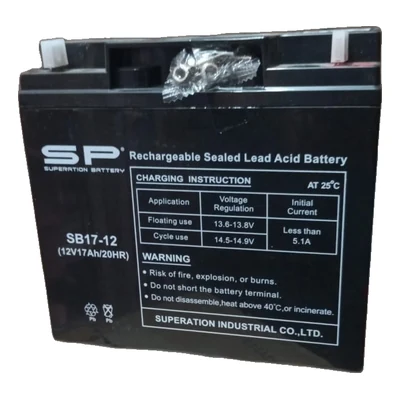
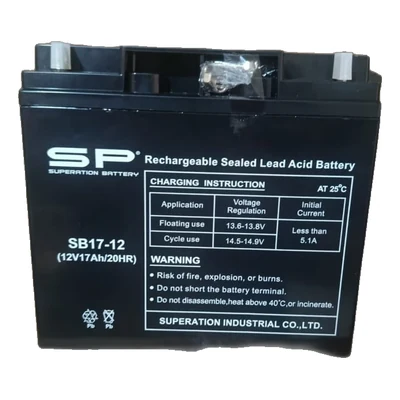
SP : 8 nouvelles references + 11 photos remplacees
Les 20 photos fournies sont des photos de stock prises sur le meme fond
(cartons) : fond retire, fond blanc, 400x400 webp comme le reste. Une
seule a demande un recadrage manuel avant detourage (6-EVF-45, le carton
du dessous etait garde).

Nouvelles fiches (8) :
  Solaire / Onduleur — SB50-12 (50Ah), SB40-12 (40Ah), SB9-12 (9Ah),
                       SB12-6 (6V 12Ah)
  Industriel         — 6-EVF-45 (45Ah), 6-DZM-38 (33.6Ah),
                       6-DZF-15 (15Ah), 6-DZF-12 (13Ah)

Photos remplacees (11) par les nouvelles prises, plus homogenes :
  SB75-12, SB55-12, SB36-12, SB30-12, SB17-12, SB12-12, SB7-12,
  SB4.5-12, SB7-6, SB4-6, 6-DZF-14

Capacites relevees sur l'etiquette : le 6-DZM-38 est donne pour
12V 33.6Ah/3HR et le 6-DZF-12 pour 12V 13Ah/2HR.

Une photo du lot (SB30-12 sans mention GEL) fait doublon avec la
SB30-12(GEL) : elle n'a pas ete utilisee.

Prix a definir : les 8 nouvelles fiches affichent « Sur demande ».

Claude-Session: https://claude.ai/code/session_01UbCYiDhGBYKx2jaPDPY8s7

diff --git a/src/data/catalogue.js b/src/data/catalogue.js
@@ -395,14 +395,18 @@ export const vehicles = [
       { id: 'so_sp_sb100', brand: 'SP', model: 'SB100-12(GEL)', ah: 100, v: 12, cca: 0, dim: '', price: null, fits: 'Kit solaire, onduleur (décharge lente)', photo: '/batteries/sp_sb100_12.webp' },
       { id: 'so_sp_sb75', brand: 'SP', model: 'SB75-12(GEL)', ah: 75, v: 12, cca: 0, dim: '260 × 169 × 210 mm', price: null, fits: 'Kit solaire, onduleur (décharge lente)', photo: '/batteries/sp_sb75_12.webp' },
       { id: 'so_sp_sb55', brand: 'SP', model: 'SB55-12(GEL)', ah: 55, v: 12, cca: 0, dim: '229 × 138 × 213 mm', price: null, fits: 'Kit solaire, onduleur (décharge lente)', photo: '/batteries/sp_sb55_12.webp' },
+      { id: 'so_sp_sb50', brand: 'SP', model: 'SB50-12(GEL)', ah: 50, v: 12, cca: 0, dim: '229 × 138 × 213 mm', price: null, fits: 'Kit solaire, onduleur (décharge lente)', photo: '/batteries/sp_sb50_12.webp' },
       { id: 'so_sp_sb45', brand: 'SP', model: 'SB45-12(GEL)', ah: 45, v: 12, cca: 0, dim: '197 × 165 × 170 mm', price: null, fits: 'Kit solaire, onduleur (décharge lente)', photo: '/batteries/sp_sb45_12.webp' },
+      { id: 'so_sp_sb40', brand: 'SP', model: 'SB40-12(GEL)', ah: 40, v: 12, cca: 0, dim: '197 × 165 × 170 mm', price: null, fits: 'Kit solaire, onduleur (décharge lente)', photo: '/batteries/sp_sb40_12.webp' },
       { id: 'so_sp_sb36', brand: 'SP', model: 'SB36-12(GEL)', ah: 36, v: 12, cca: 0, dim: '196 × 130 × 169 mm', price: null, fits: 'Kit solaire, onduleur (décharge lente)', photo: '/batteries/sp_sb36_12.webp' },
       { id: 'so_sp_sb30', brand: 'SP', model: 'SB30-12(GEL)', ah: 30, v: 12, cca: 0, dim: '166 × 175 × 125 mm', price: null, fits: 'Kit solaire, onduleur (décharge lente)', photo: '/batteries/sp_sb30_12.webp' },
       { id: 'so_sp_sb17', brand: 'SP', model: 'SB17-12', ah: 17, v: 12, cca: 0, dim: '181 × 76 × 167 mm', price: null, fits: 'Kit solaire, onduleur (décharge lente)', photo: '/batteries/sp_sb17_12.webp' },
       { id: 'so_sp_sb12', brand: 'SP', model: 'SB12-12', ah: 12, v: 12, cca: 0, dim: '151 × 98 × 95 mm', price: null, fits: 'Kit solaire, onduleur (décharge lente)', photo: '/batteries/sp_sb12_12.webp' },
+      { id: 'so_sp_sb9', brand: 'SP', model: 'SB9-12', ah: 9, v: 12, cca: 0, dim: '151 × 65 × 94 mm', price: null, fits: 'Onduleur, alarme, backup', photo: '/batteries/sp_sb9_12.webp' },
       { id: 'so_sp_sb7', brand: 'SP', model: 'SB7-12', ah: 7, v: 12, cca: 0, dim: '151 × 65 × 94 mm', price: null, fits: 'Onduleur, alarme, backup', photo: '/batteries/sp_sb7_12.webp' },
       { id: 'so_sp_sb4p5', brand: 'SP', model: 'SB4.5-12', ah: 4.5, v: 12, cca: 0, dim: '90 × 70 × 101 mm', price: null, fits: 'Onduleur, alarme, backup', photo: '/batteries/sp_sb4p5_12.webp' },
       { id: 'so_sp_sb1p3', brand: 'SP', model: 'SB1.3-12', ah: 1.3, v: 12, cca: 0, dim: '', price: null, fits: 'Onduleur, alarme, backup', photo: '/batteries/sp_sb1p3_12.webp' },
+      { id: 'so_sp_sb12_6', brand: 'SP', model: 'SB12-6(GEL)', ah: 12, v: 6, cca: 0, dim: '151 × 50 × 94 mm', price: null, fits: 'Onduleur, alarme, backup', photo: '/batteries/sp_sb12_6v.webp' },
       { id: 'so_sp_sb7_6', brand: 'SP', model: 'SB7-6(GEL)', ah: 7, v: 6, cca: 0, dim: '151 × 34 × 94 mm', price: null, fits: 'Onduleur, alarme, backup', photo: '/batteries/sp_sb7_6v.webp' },
       { id: 'so_sp_sb4_6', brand: 'SP', model: 'SB4-6(GEL)', ah: 4, v: 6, cca: 0, dim: '70 × 47 × 101 mm', price: null, fits: 'Onduleur, alarme, backup', photo: '/batteries/sp_sb4_6v.webp' },
     ],
@@ -469,12 +473,16 @@ export const vehicles = [
       // vélo et scooter électriques) et EV (VRLA GEL motive power). Prix à définir.
       { id: 'in_sp_ev220', brand: 'SP', model: 'EV220-6(GEL)', ah: 220, v: 6, cca: 0, dim: '', price: null, fits: 'Traction lourde — voiturette, nacelle, chariot (VRLA GEL)', photo: '/batteries/sp_ev220_6.webp' },
       { id: 'in_sp_ev170', brand: 'SP', model: 'EV170-8(GEL)', ah: 170, v: 8, cca: 0, dim: '', price: null, fits: 'Traction lourde — voiturette, nacelle, chariot (VRLA GEL)', photo: '/batteries/sp_ev170_8.webp' },
+      { id: 'in_sp_evf45', brand: 'SP', model: '6-EVF-45', ah: 45, v: 12, cca: 0, dim: '', price: null, fits: 'Traction — vélo, scooter, tricycle électrique (GEL deep cycle)', photo: '/batteries/sp_6evf45.webp' },
       { id: 'in_sp_dzm45', brand: 'SP', model: '6-DZM-45', ah: 45, v: 12, cca: 0, dim: '', price: null, fits: 'Traction — vélo, scooter, tricycle électrique (GEL deep cycle)', photo: '/batteries/sp_6dzm45.webp' },
+      { id: 'in_sp_dzm38', brand: 'SP', model: '6-DZM-38', ah: 33.6, v: 12, cca: 0, dim: '', price: null, fits: 'Traction — vélo, scooter, tricycle électrique (GEL deep cycle)', photo: '/batteries/sp_6dzm38.webp' },
       { id: 'in_sp_dzf23', brand: 'SP', model: '6-DZF-23', ah: 23, v: 12, cca: 0, dim: '', price: null, fits: 'Traction — vélo, scooter, tricycle électrique (GEL deep cycle)', photo: '/batteries/sp_6dzf23.webp' },
       { id: 'in_sp_dzf20', brand: 'SP', model: '6-DZF-20', ah: 22, v: 12, cca: 0, dim: '', price: null, fits: 'Traction — vélo, scooter, tricycle électrique (GEL deep cycle)', photo: '/batteries/sp_6dzf20.webp' },
+      { id: 'in_sp_dzf15', brand: 'SP', model: '6-DZF-15', ah: 15, v: 12, cca: 0, dim: '', price: null, fits: 'Traction — vélo, scooter, tricycle électrique (GEL deep cycle)', photo: '/batteries/sp_6dzf15.webp' },
       { id: 'in_sp_dzm15', brand: 'SP', model: '6-DZM-15', ah: 15, v: 12, cca: 0, dim: '', price: null, fits: 'Traction — vélo, scooter, tricycle électrique (GEL deep cycle)', photo: '/batteries/sp_6dzm15.webp' },
       { id: 'in_sp_dzf14', brand: 'SP', model: '6-DZF-14', ah: 14, v: 12, cca: 0, dim: '', price: null, fits: 'Traction — vélo, scooter, tricycle électrique (GEL deep cycle)', photo: '/batteries/sp_6dzf14.webp' },
       { id: 'in_sp_dzm14', brand: 'SP', model: '6-DZM-14', ah: 14, v: 12, cca: 0, dim: '', price: null, fits: 'Traction — vélo, scooter, tricycle électrique (GEL deep cycle)', photo: '/batteries/sp_6dzm14.webp' },
+      { id: 'in_sp_dzf12', brand: 'SP', model: '6-DZF-12', ah: 13, v: 12, cca: 0, dim: '', price: null, fits: 'Traction — vélo, scooter, tricycle électrique (GEL deep cycle)', photo: '/batteries/sp_6dzf12.webp' },
       { id: 'in_sp_dzm12', brand: 'SP', model: '6-DZM-12', ah: 13, v: 12, cca: 0, dim: '', price: null, fits: 'Traction — vélo, scooter, tricycle électrique (GEL deep cycle)', photo: '/batteries/sp_6dzm12.webp' },
     ],
   },
